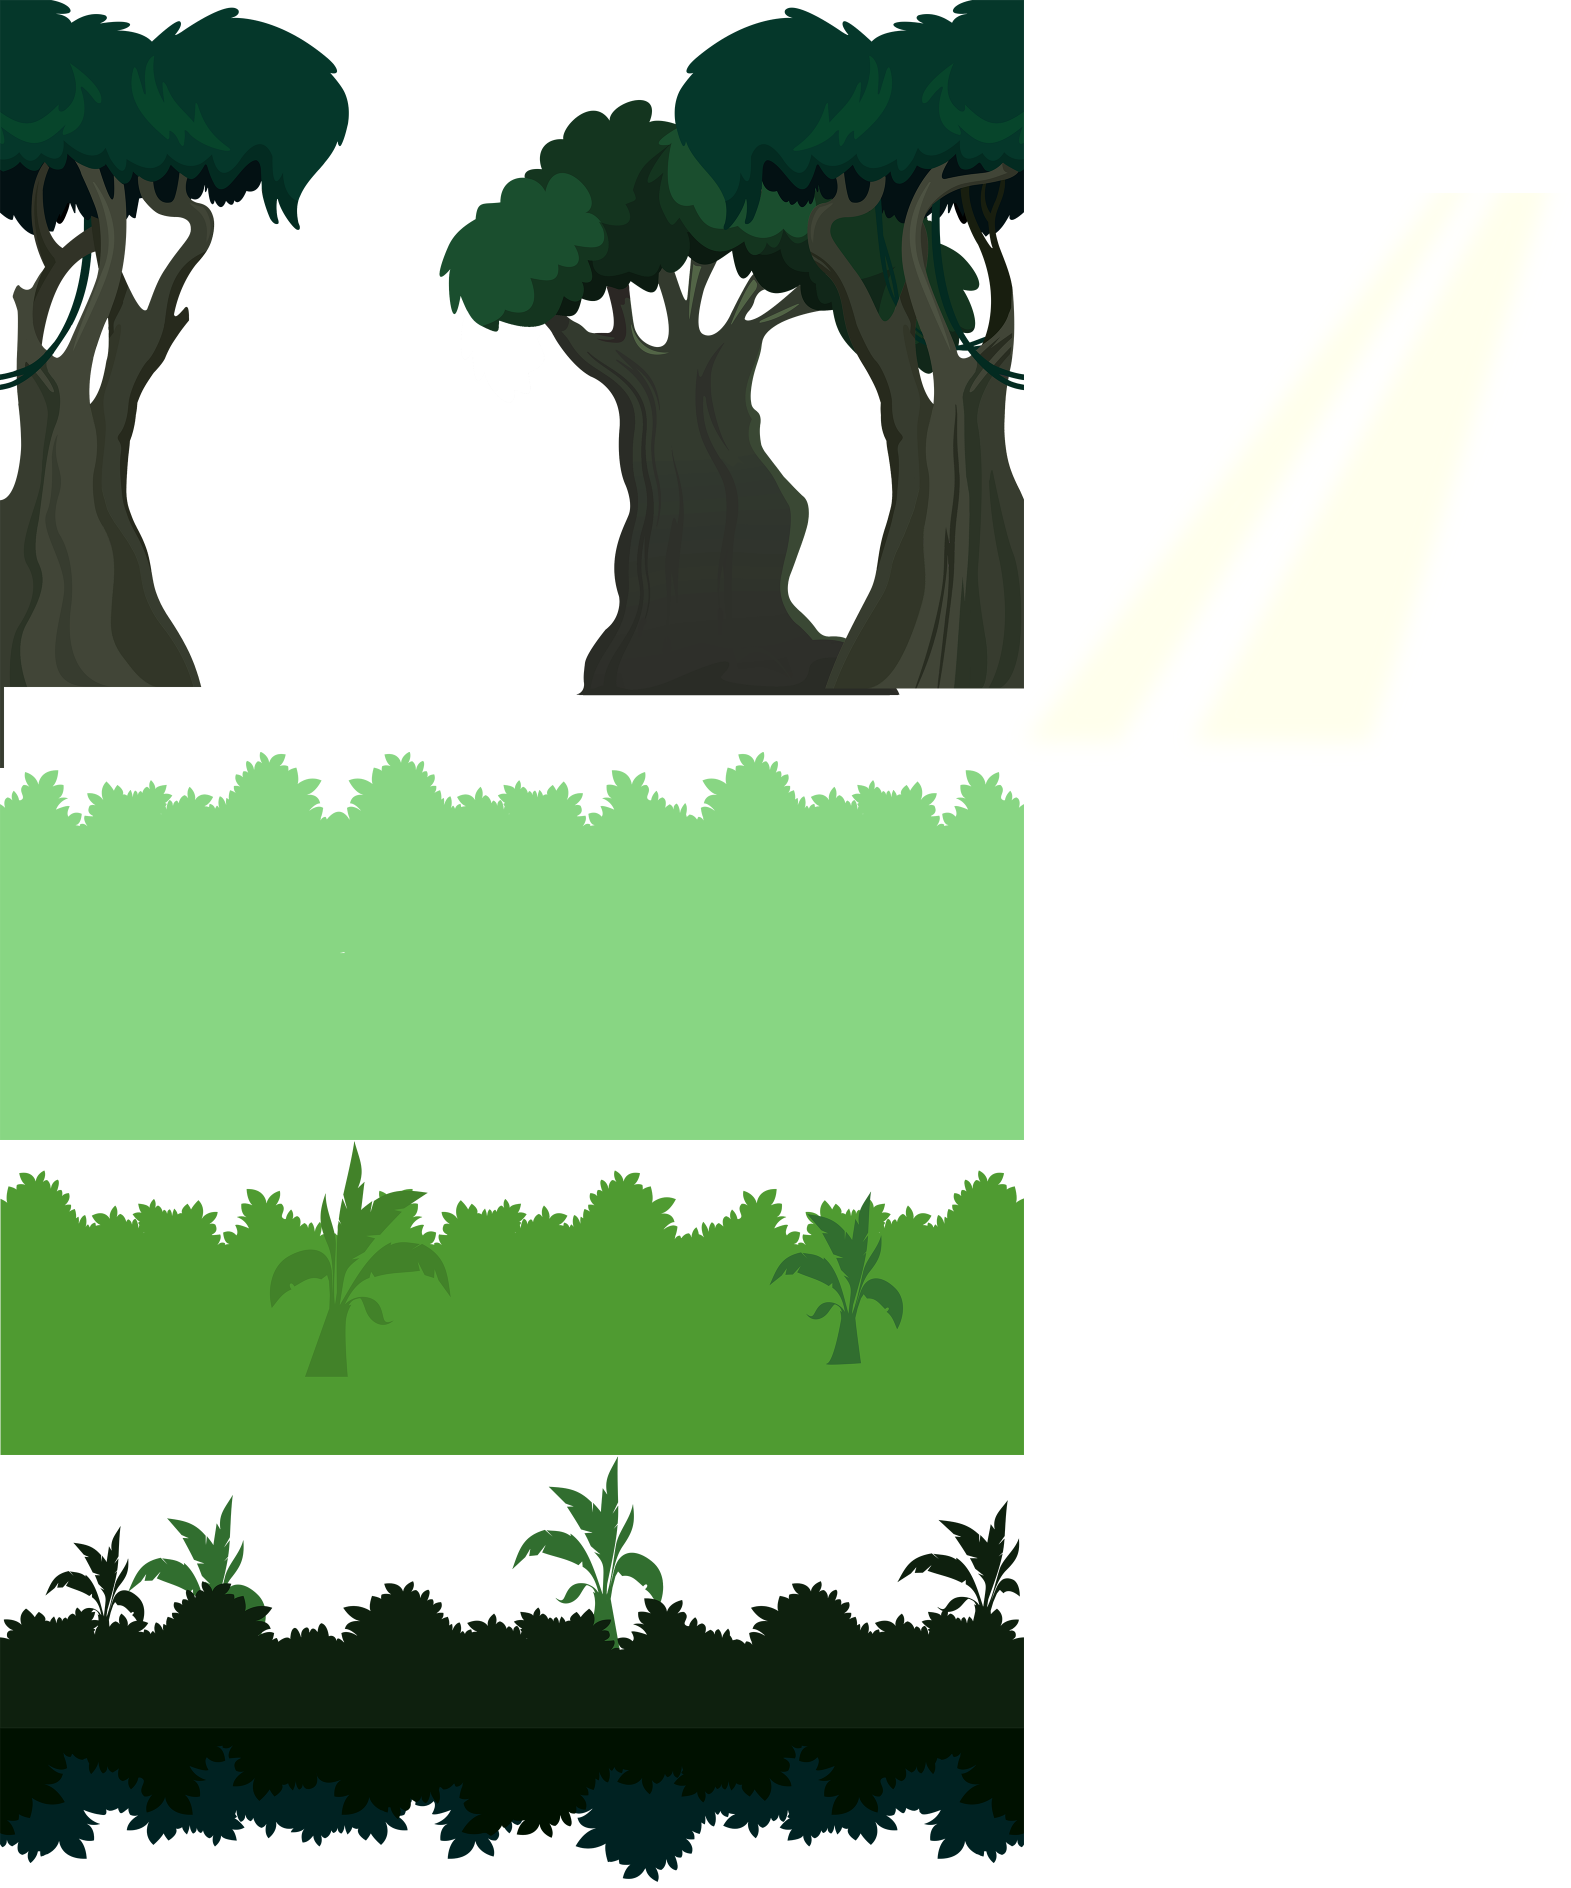
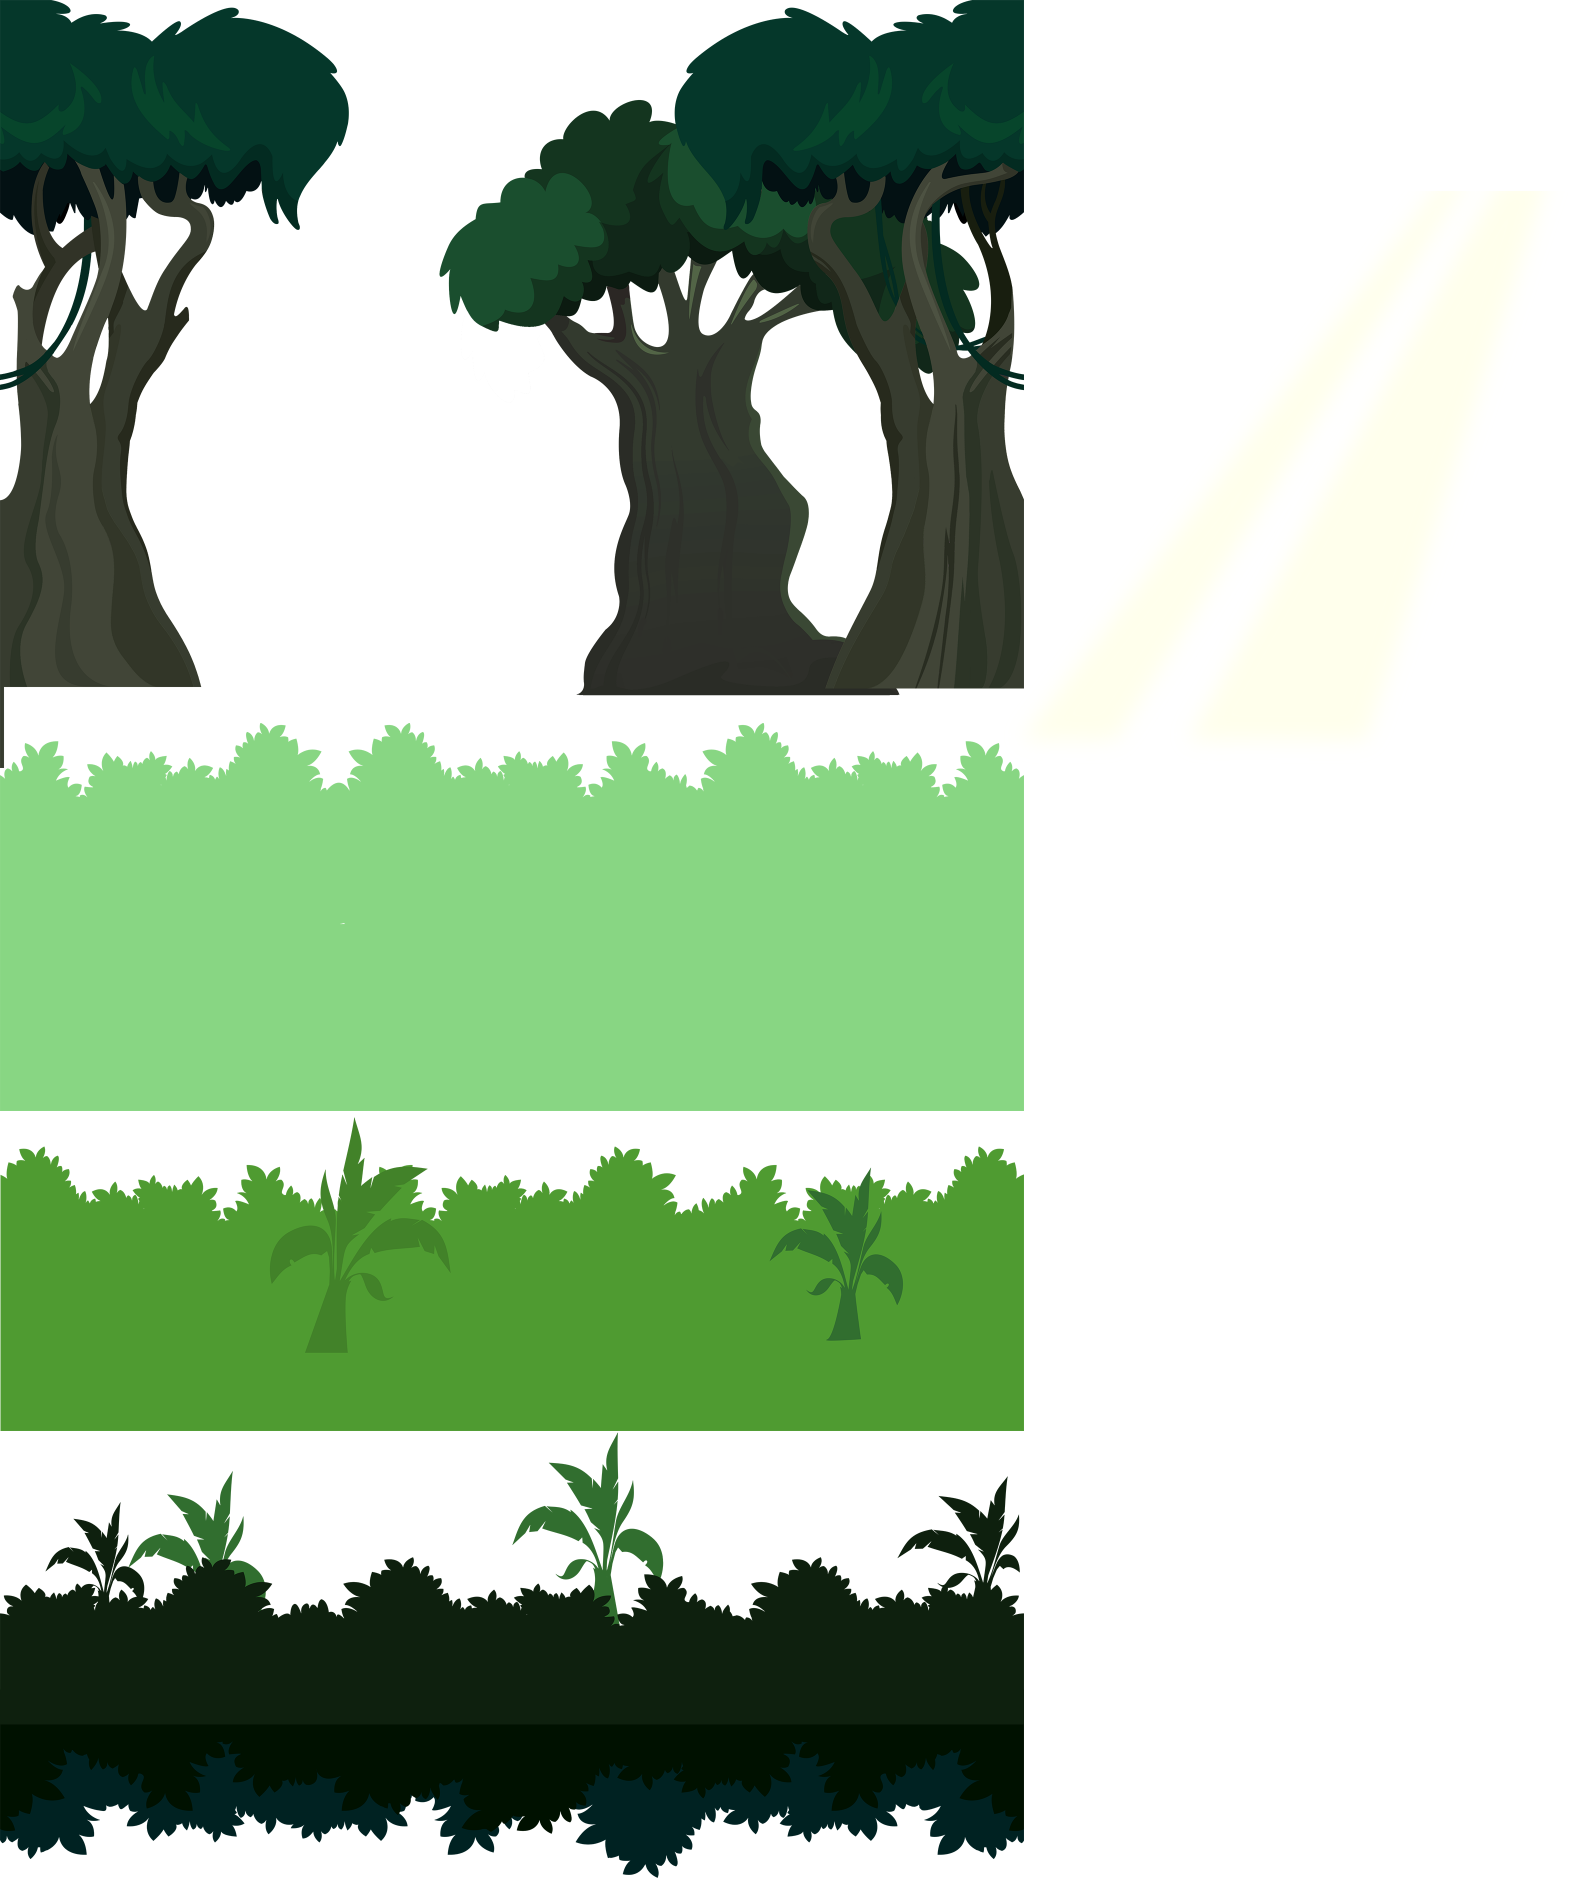
minor changes

diff --git a/src/layers/AlphaRacing/AlphaRacingLayer.js b/src/layers/AlphaRacing/AlphaRacingLayer.js
@@ -143,8 +143,8 @@ var AlphaRacingLayer = cc.Layer.extend({
     },
 
     onTouchBegan: function(touch, event) {
-
-        this._player.jump();
+        if (this._player.current != "died")
+            this._player.jump();
 
         return true;
     },
@@ -190,9 +190,9 @@ var AlphaRacingLayer = cc.Layer.extend({
         this._parallaxs.push(parallaxtreessofar);
 
 
-        var grass1 = new cc.Sprite("#grassalpharacing.png");
-        var grass2 = new cc.Sprite("#grassalpharacing.png");
-        var grass3 = new cc.Sprite("#grassalpharacing.png");
+        var grass1 = new cc.Sprite("#grass.png");
+        var grass2 = new cc.Sprite("#grass.png");
+        var grass3 = new cc.Sprite("#grass.png");
         var parallaxgrass = cc.CCParallaxScrollNode.create();
         parallaxgrass.addInfiniteScrollWithObjects([grass1, grass2, grass3], 1, cc.p(-0.5, 0), cc.p(0, -20), cc.p(1, 0), cc.p(0, 0), cc.p(-2, -2));
         this._parallaxLayer.addChild(parallaxgrass, 1);
